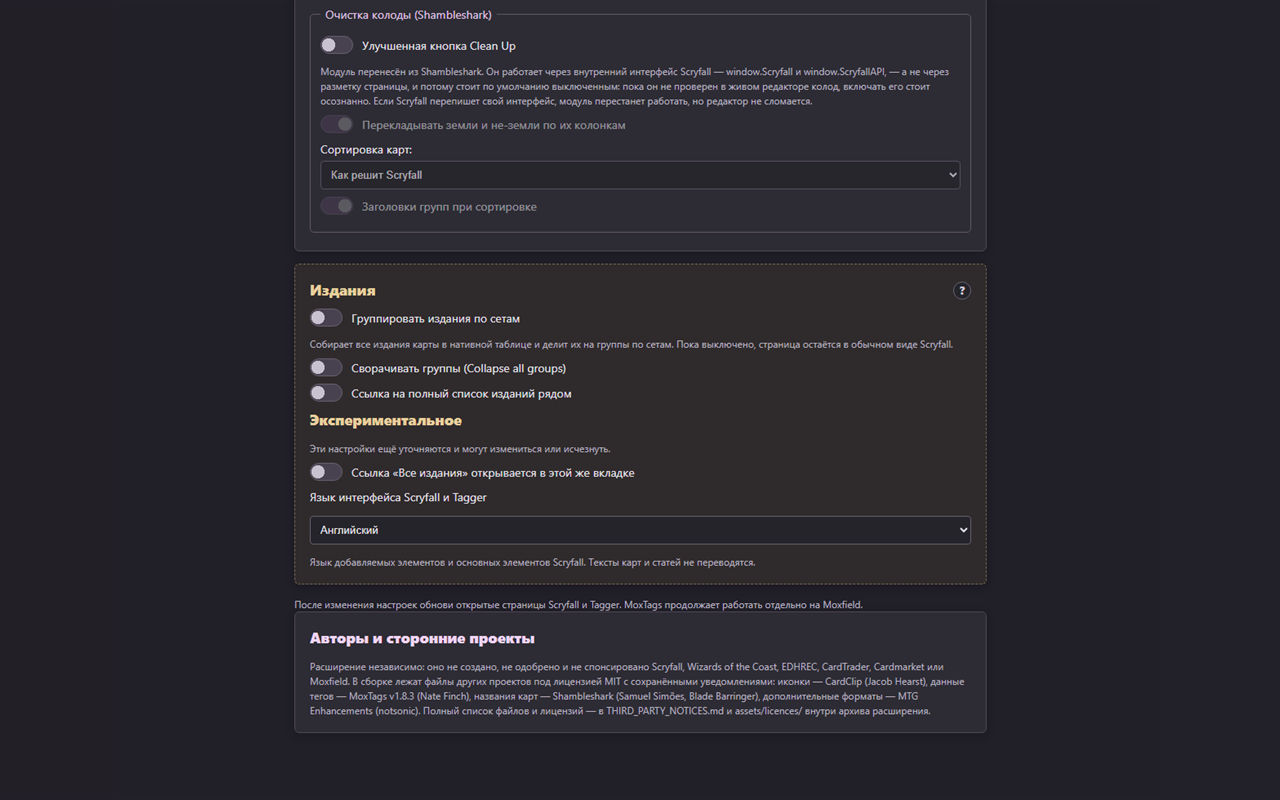
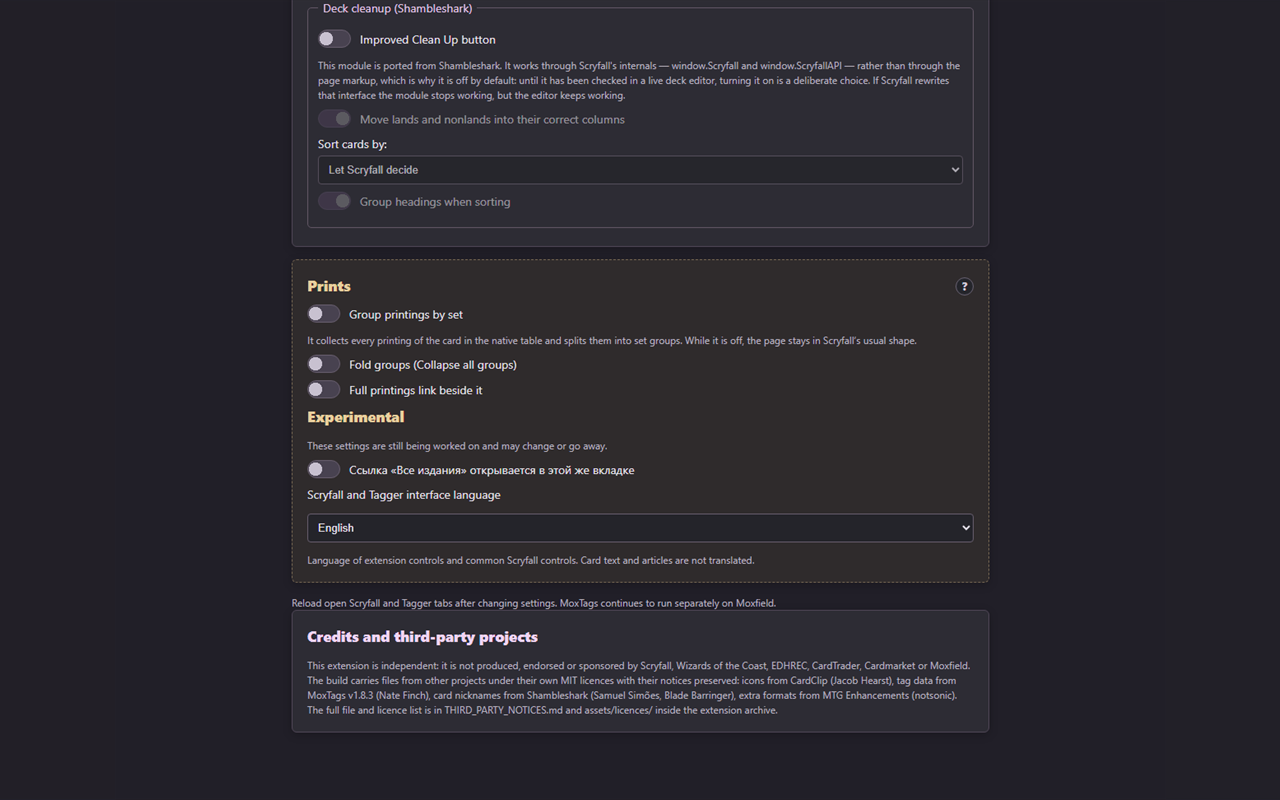
Show what the extension does on the project page, in English
The README led with a 1280x4860 strip of the settings page — at the width a README is
read at that is a line, not a picture — and it was in Russian. The settings page takes its
language from storage or else from the browser, and the machine that took the capture is
set to Russian, so an English README and an English store listing were both showing a page
in a language nobody chose. The capture now stores settingsLanguage: 'en'; the page has no
other way to be told, which is why this is a change in the tool and not a switch somebody
remembered to flip.

The README now opens with what the extension does rather than what it is configured to do:
four pictures cut from a real Scryfall card page — printings grouped by set with finish
badges, the tag tables, the legality block with Premodern added, the clipboard. No card
artwork in any of them, and none ships inside the extension.

Its sentence about "a picture beside each switch" described a layout the page has not had
since the pictures moved behind the "?", so that was corrected too.

Two checks hold this down: every picture the README names must exist, and the settings
capture must be a picture rather than a strip. Both verified by breaking them.

0.63.0. 1658 assertions pass across eight suites.

diff --git a/README.md b/README.md
@@ -1,4 +1,4 @@
-# Scryfall Toolkit 0.62.0
+# Scryfall Toolkit 0.63.0
 
 An independent browser extension for **Scryfall** and **Scryfall Tagger**: a shared card clipboard, tag panels on card pages, extra format legalities, a dark theme, and optional EDHREC and CardTrader data.
 
@@ -10,11 +10,39 @@ Not produced, endorsed or approved by Scryfall, Wizards of the Coast, EDHREC, Ca
 
 ## What it looks like
 
-The whole settings page, top to bottom. Each section that changes what a Scryfall page
-shows carries a picture of it, taken from the feature files themselves — so what you see
-beside a switch is the panel the switch turns on, not a drawing of one:
+Everything below is a real Scryfall card page — their markup, their stylesheet, this
+extension's panels on it, in this extension's dark theme. Not a mock-up and not a drawing:
+the card is Counterspell and the printings, prices, legalities and tags are the ones
+Scryfall and Tagger returned.
 
-![Scryfall Toolkit settings page, showing all ten sections from General to Credits](store-assets/settings-page-full.png)
+**Printings grouped by set**, with a finish badge per row and the full-page link. Scryfall
+shows ten printings on its own; this collects all of them:
+
+![All of Counterspell's printings, grouped by set, with finish badges](assets/shots/prints.png)
+
+**Card and art tags** from Tagger, next to the printings:
+
+![Counterspell's card tags and art tags](assets/shots/tags.png)
+
+**Extra formats** in Scryfall's own legality block — Premodern here is the one this
+extension added, from Scryfall's answer about the card:
+
+![The legality block with Premodern added](assets/shots/legality.png)
+
+**The clipboard** in the corner of any page, with per-card copy:
+
+![The shared card clipboard](assets/shots/cardclip.png)
+
+No card artwork appears in any of these pictures, and none ships inside the extension.
+
+## The settings page
+
+The settings page, top to bottom. Every section that changes what a Scryfall page shows
+carries a **?** beside its heading: press it and the panel that switch turns on opens over
+the page. The pictures are cut from a real card page, so what you see behind the "?" is
+the panel the switch turns on.
+
+![Scryfall Toolkit settings page, showing every section](store-assets/settings-page-full.png)
 
 ## Install
 

diff --git a/CHANGELOG.md b/CHANGELOG.md
@@ -209,7 +209,26 @@ question the way Chrome does, remembers whether the refusal was read, and the ch
 that it was. Verified by putting the old code back — the page then throws on load, which
 is the loudest way it could fail.
 
-Tests: 1648 assertions pass across eight suites.
+### The picture on the project page
+
+The README led with a 1280×4860 strip of the settings page — at the width a README is read
+at that is a line, not a picture — and it was **in Russian**, because the settings page
+takes its language from storage or else from the browser, and the machine that took the
+capture is set to Russian. The README is English and so is the store listing, so a reader
+of either was looking at a page in a language nobody asked for. The capture now stores
+`settingsLanguage: 'en'`; the page has no other way to be told, which is why this was a
+tool change and not a switch someone remembered to flip.
+
+The README now opens with what the extension does rather than what it is configured to do:
+four pictures cut from a real Scryfall card page — printings grouped by set with finish
+badges, the tag tables, the legality block with Premodern added, the clipboard. Its
+sentence about "a picture beside each switch" described a layout the page no longer has,
+since the pictures moved behind the "?".
+
+Two checks hold this down: every picture the README names must exist, and the capture must
+be a picture rather than a strip. Both were verified by breaking them.
+
+Tests: 1658 assertions pass across eight suites.
 
 ### The theme, in seven files
 

diff --git a/docs/ROADMAP.md b/docs/ROADMAP.md
@@ -43,11 +43,14 @@ browser with the extension loaded would close that, and nothing else would.
 
 ### Store screenshots of Scryfall itself
 
-The five screenshots show the settings page. Nothing shows what the extension does to
-Scryfall — tags beside the printings, the clipboard, the extra legality rows, the deck
-editor tools. A listing whose images only show a settings form does not tell a user what
-they are installing. At least one shot of a card page in the dark theme with the tag tables
-and the clipboard visible, and one of the deck editor with the three tools in use.
+**Half done, and the half that is missing is the part that matters.** The README now shows
+the real thing — a card page with the printings, the tag tables and the extra legality row
+on it — so the project page is no longer five pictures of a settings form.
+
+The store listing still is: its five slots are cut from one capture of the settings page,
+because they must not repeat and must not crop, and one capture of that page is 1280×4860.
+That is the honest constraint, and the way round it is a card-page capture — which needs
+the extension loaded in a browser, which Chrome 154 will not do.
 
 A card may appear in one. What may not: cropping the card so the copyright and artist line
 goes with it, recolouring or rescaling it, or putting anything on top of it. A screenshot

diff --git a/docs/CHROME_WEB_STORE_LISTING.md b/docs/CHROME_WEB_STORE_LISTING.md
@@ -1,4 +1,4 @@
-# Chrome Web Store listing — Scryfall Toolkit 0.62.0
+# Chrome Web Store listing — Scryfall Toolkit 0.63.0
 
 Everything here is written from the shipped code, so that the answers given in the store
 console match what the extension actually does. Where a field needs a decision from the
